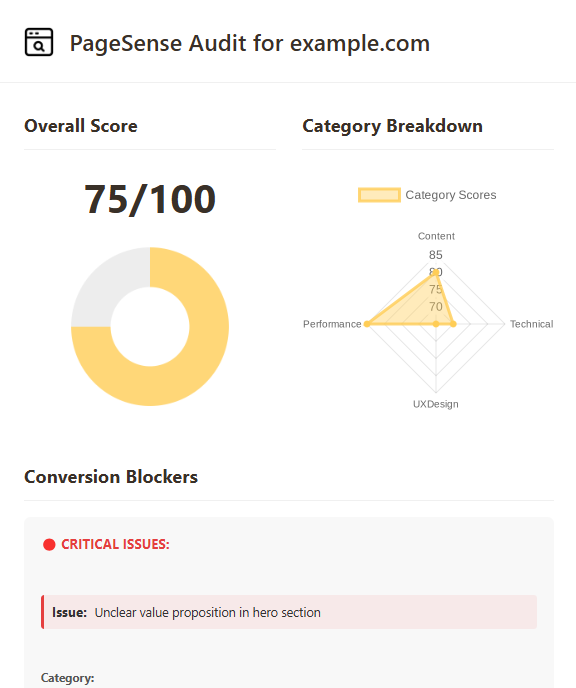
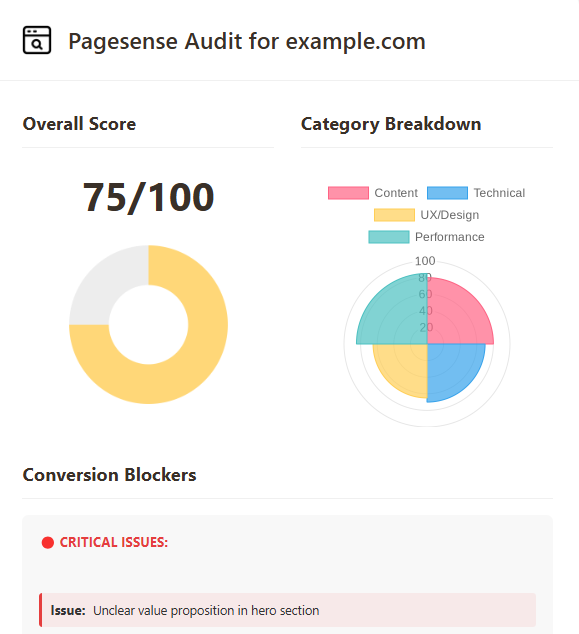
feat: update audit scoring categories to use consistent naming and improve chart visualization

diff --git a/app/api/audit/route.ts b/app/api/audit/route.ts
@@ -264,7 +264,7 @@ async function generateAuditPDF(
  * @param url - The landing page URL to audit.
  * @returns A Promise resolving to an object containing:
  *   - overallScore: A number from 0-100 representing the overall quality score.
- *   - categoryScores: An object with scores for Content, Technical, UX/Design, and Performance.
+ *   - categoryScores: An object with scores for Content, Technical, UXDesign, and Performance.
  *   - blockers: An array of objects, each with "issue", "priority", "category", and "suggestions" properties.
  *   - recommendations: An array of recommendation strings.
  *   Returns null if the audit fails or the response is invalid.
@@ -291,7 +291,7 @@ async function audit(url: string) {
 - Be incredibly thorough, prioritizing the highest‐impact changes
 - Output strictly valid JSON matching the user's schema
 - Provide specific, practical, and immediately implementable recommendations
-- Categorize issues into Content, Technical, UX/Design, or Performance
+- Categorize issues into Content, Technical, UXDesign, or Performance
 - Assign priority levels (Critical, High, Medium, Low) based on impact
 - Provide numerical scores (0-100) for different categories of the site
 - Ensure your JSON is clean and parsable without any formatting artifacts
@@ -304,31 +304,30 @@ When given a landing page URL, analyze its strengths and weaknesses thoroughly. 
           role: "user",
           content: `Analyze the following landing page URL: ${url}.
 - Provide an overall conversion optimization score (0-100)
-- Break down the score by category (Content, Technical, UX/Design, Performance)
+- Break down the score by category (Content, Technical, UXDesign, Performance)
 - Identify 3–5 major conversion blockers
 - For each blocker, assign a priority level (Critical, High, Medium, Low)
-- For each blocker, indicate the category (Content, Technical, UX/Design, Performance)
+- For each blocker, indicate the category (Content, Technical, UXDesign, Performance)
 - Suggest exactly 3 concrete improvements for each blocker
 - Add 3-5 general recommendations for further improvement
-Provide your response as JSON:
+Provide your response as JSON with the following structure:
 {
-  "overallScore": 75,
+  "overallScore": number,
   "categoryScores": {
-    "Content": 80,
-    "Technical": 70,
-    "UX/Design": 65,
-    "Performance": 85
+    "Content": number,
+    "Technical": number,
+    "UXDesign": number,
+    "Performance": number
   },
   "blockers": [
     {
-      "issue": "Unclear value proposition in hero section",
-      "priority": "Critical",
-      "category": "Content",
-      "suggestions": ["Add benefit-driven headline", "Include social proof", "Clarify target audience"]
-    },
-    ...
+      "issue": string,
+      "priority": string,
+      "category": string,
+      "suggestions": [string, string, string]
+    }
   ],
-  "recommendations": ["…", "…"]
+  "recommendations": [string, string, string, string, string]
 }`,
         },
       ],
@@ -531,7 +530,7 @@ export async function POST(request: Request) {
     const categoryScores = result.categoryScores || {
       "Content": 50,
       "Technical": 50,
-      "UX/Design": 50,
+      "UXDesign": 50,
       "Performance": 50
     };
 
@@ -572,32 +571,33 @@ export async function POST(request: Request) {
     // Convert to JSON and encode for URL usage
     const scoreChartUrl = `https://quickchart.io/chart?width=200&height=200&devicePixelRatio=2&format=png&c=${encodeURIComponent(JSON.stringify(scoreChartConfig))}`;
 
-    // Create radar chart for category scores with better styling
-    const categories = Object.keys(categoryScores);
+    // Create polar area chart for category scores
+    const categories = Object.keys(categoryScores).map(cat => cat === "UXDesign" ? "UX/Design" : cat);
     const scores = Object.values(categoryScores);
 
-    // Create radar chart config as a proper JavaScript object
+    // Generate background colors for each category
+    const backgroundColors = [
+      'rgba(255, 99, 132, 0.7)',   // Red for Content
+      'rgba(54, 162, 235, 0.7)',   // Blue for Technical
+      'rgba(255, 206, 86, 0.7)',   // Yellow for UXDesign
+      'rgba(75, 192, 192, 0.7)',    // Teal for Performance
+    ];
+
+    // Create polar area chart config
     const radarChartConfig = {
-      type: "radar",
+      type: "polarArea",
       data: {
         labels: categories,
         datasets: [{
-          label: "Category Scores",
           data: scores,
-          backgroundColor: `rgba(${scoreColor},0.4)`,
-          borderColor: `rgba(${scoreColor},0.8)`,
-          pointBackgroundColor: `rgba(${scoreColor},1)`,
-          pointHoverBackgroundColor: "#fff"
+          backgroundColor: backgroundColors,
+          borderWidth: 1,
+          borderColor: backgroundColors.map(color => color.replace('0.7', '1'))
         }]
       },
       options: {
         scales: {
           r: {
-            angleLines: {
-              display: true
-            },
-            suggestedMin: 0,
-            suggestedMax: 100,
             beginAtZero: true,
             min: 0,
             max: 100,
@@ -606,25 +606,28 @@ export async function POST(request: Request) {
               callback: function(value) {
                 return value + '%';
               }
-            },
-            pointLabels: {
-              font: {
-                size: 12,
-                weight: 'bold'
-              }
             }
           }
         },
         plugins: {
           legend: {
-            position: "bottom"
+            position: "right",
+            labels: {
+              font: {
+                size: 12,
+                weight: 'bold'
+              }
+            }
           },
           tooltip: {
             callbacks: {
               label: function(context) {
-                return context.dataset.label + ': ' + context.parsed.r + '%';
+                return context.label + ': ' + context.formattedValue + '%';
               }
             }
+          },
+          title: {
+            display: false
           }
         },
         maintainAspectRatio: true
@@ -666,7 +669,7 @@ export async function POST(request: Request) {
     blockers += formatBlockersByPriority(lowBlockers, "🟢", "LOW PRIORITY", "#38a169");
 
     // Format recommendations as bullet points with styling
-    recommendations = result.recommendations.map(rec => `<div style='margin-bottom:16px; padding-bottom:16px; border-bottom:1px dashed #e8e8e8;'>• ${rec}</div>`).join("");
+    recommendations = result.recommendations.map(rec => `<div style='margin-bottom:16px; padding-bottom:16px; border-bottom:1px dashed #e8e8e8;'>• ${rec}</div>`).join("<br>");
 
     console.log("[handler] Genenerating PDF...");
 

diff --git a/audit-preview.html b/audit-preview.html
@@ -62,7 +62,7 @@
       categoryScores: {
         Content: 80,
         Technical: 70,
-        UXDesign: 65,
+        "UX/Design": 65,
         Performance: 85
       },
       blockers: [
@@ -150,7 +150,7 @@
       sampleData.overallScore = parseInt(overallScore);
       sampleData.categoryScores.Content = parseInt(contentScore);
       sampleData.categoryScores.Technical = parseInt(technicalScore);
-      sampleData.categoryScores.UXDesign = parseInt(uxScore);
+      sampleData.categoryScores["UX/Design"] = parseInt(uxScore);
       sampleData.categoryScores.Performance = parseInt(performanceScore);
 
       // Format blockers by priority
@@ -230,32 +230,33 @@
       // Convert to JSON and encode - add devicePixelRatio for sharper images
       const scoreChartUrl = `https://quickchart.io/chart?width=200&height=200&devicePixelRatio=2&format=png&c=${encodeURIComponent(JSON.stringify(scoreChartConfig))}`;
 
-      // Create radar chart for category scores
-      const categories = Object.keys(sampleData.categoryScores);
+      // Create polar area chart for category scores
+      const categories = Object.keys(sampleData.categoryScores).map(cat => cat === "UXDesign" ? "UX/Design" : cat);
       const scores = Object.values(sampleData.categoryScores);
 
-      // Create radar chart config as an object
-      const radarChartConfig = {
-        type: "radar",
+      // Generate background colors for each category
+      const backgroundColors = [
+        'rgba(255, 99, 132, 0.7)',   // Red for Content
+        'rgba(54, 162, 235, 0.7)',   // Blue for Technical
+        'rgba(255, 206, 86, 0.7)',   // Yellow for UX/Design
+        'rgba(75, 192, 192, 0.7)',   // Teal for Performance
+      ];
+
+      // Create polar area chart config
+      const polarChartConfig = {
+        type: "polarArea",
         data: {
           labels: categories,
           datasets: [{
-            label: "Category Scores",
             data: scores,
-            backgroundColor: `rgba(${scoreColor},0.4)`,
-            borderColor: `rgba(${scoreColor},0.8)`,
-            pointBackgroundColor: `rgba(${scoreColor},1)`,
-            pointHoverBackgroundColor: "#fff"
+            backgroundColor: backgroundColors,
+            borderWidth: 1,
+            borderColor: backgroundColors.map(color => color.replace('0.7', '1'))
           }]
         },
         options: {
           scales: {
             r: {
-              angleLines: {
-                display: true
-              },
-              suggestedMin: 0,
-              suggestedMax: 100,
               beginAtZero: true,
               min: 0,
               max: 100,
@@ -264,25 +265,28 @@
                 callback: function (value) {
                   return value + '%';
                 }
-              },
-              pointLabels: {
-                font: {
-                  size: 12,
-                  weight: 'bold'
-                }
               }
             }
           },
           plugins: {
             legend: {
-              position: "bottom"
+              position: "right",
+              labels: {
+                font: {
+                  size: 12,
+                  weight: 'bold'
+                }
+              }
             },
             tooltip: {
               callbacks: {
                 label: function (context) {
-                  return context.dataset.label + ': ' + context.parsed.r + '%';
+                  return context.label + ': ' + context.formattedValue + '%';
                 }
               }
+            },
+            title: {
+              display: false
             }
           },
           maintainAspectRatio: true
@@ -290,7 +294,7 @@
       };
 
       // Convert to JSON and encode - add devicePixelRatio for sharper images
-      const radarChartUrl = `https://quickchart.io/chart?width=250&height=250&devicePixelRatio=2&format=png&c=${encodeURIComponent(JSON.stringify(radarChartConfig))}`;
+      const polarChartUrl = `https://quickchart.io/chart?width=250&height=250&devicePixelRatio=2&format=png&c=${encodeURIComponent(JSON.stringify(polarChartConfig))}`;
 
       // Generate HTML template
       const domainName = "example.com";
@@ -301,7 +305,7 @@
         <div style="max-width:700px; margin:0 auto; background:#fff; border-radius:12px; box-shadow:0 4px 12px rgba(0,0,0,0.08);">
           <div style="padding:32px 32px 16px 32px; text-align:left; border-bottom:1px solid #f0f0f0;">
             <img src="${logoUrl}" alt="Logo" width="36" height="36" style="vertical-align:middle; margin-right:14px; margin-bottom:14px;">
-            <span style="font-size:28px; font-weight:600; color:#393028;">PageSense Audit for ${domainName}</span>
+            <span style="font-size:28px; font-weight:600; color:#393028;">Pagesense Audit for ${domainName}</span>
           </div>
           <div style="padding:32px;">
             <div style="display:flex; flex-direction:row; justify-content:space-between; margin-bottom:32px; flex-wrap:wrap;">
@@ -315,7 +319,7 @@
               <div style="flex:1; min-width:280px; padding-left:16px;">
                 <h2 style="font-size:22px; color:#393028; border-bottom:1px solid #f0f0f0; padding-bottom:12px; margin-top:0;">Category Breakdown</h2>
                 <div style="text-align:center; margin-top:35px">
-                  <img src="${radarChartUrl}" alt="Category Scores" width="300" style="margin:0 auto;">
+                  <img src="${polarChartUrl}" alt="Category Scores" width="300" style="margin:0 auto;">
                 </div>
               </div>
             </div>

diff --git a/components/hero.tsx b/components/hero.tsx
@@ -89,7 +89,7 @@ const Hero = ({
                     height={height}
                     aboveFold={true}
                     quality={90}
-                    className="relative max-h-[450px] md:max-h-[550px] w-auto rounded-t-2xl object-contain bg-background/10 antialiased"
+                    className="relative max-h-[400px] md:max-h-[500px] w-auto rounded-t-2xl object-contain bg-background/10 antialiased"
                   />
                 </div>
               </div>
